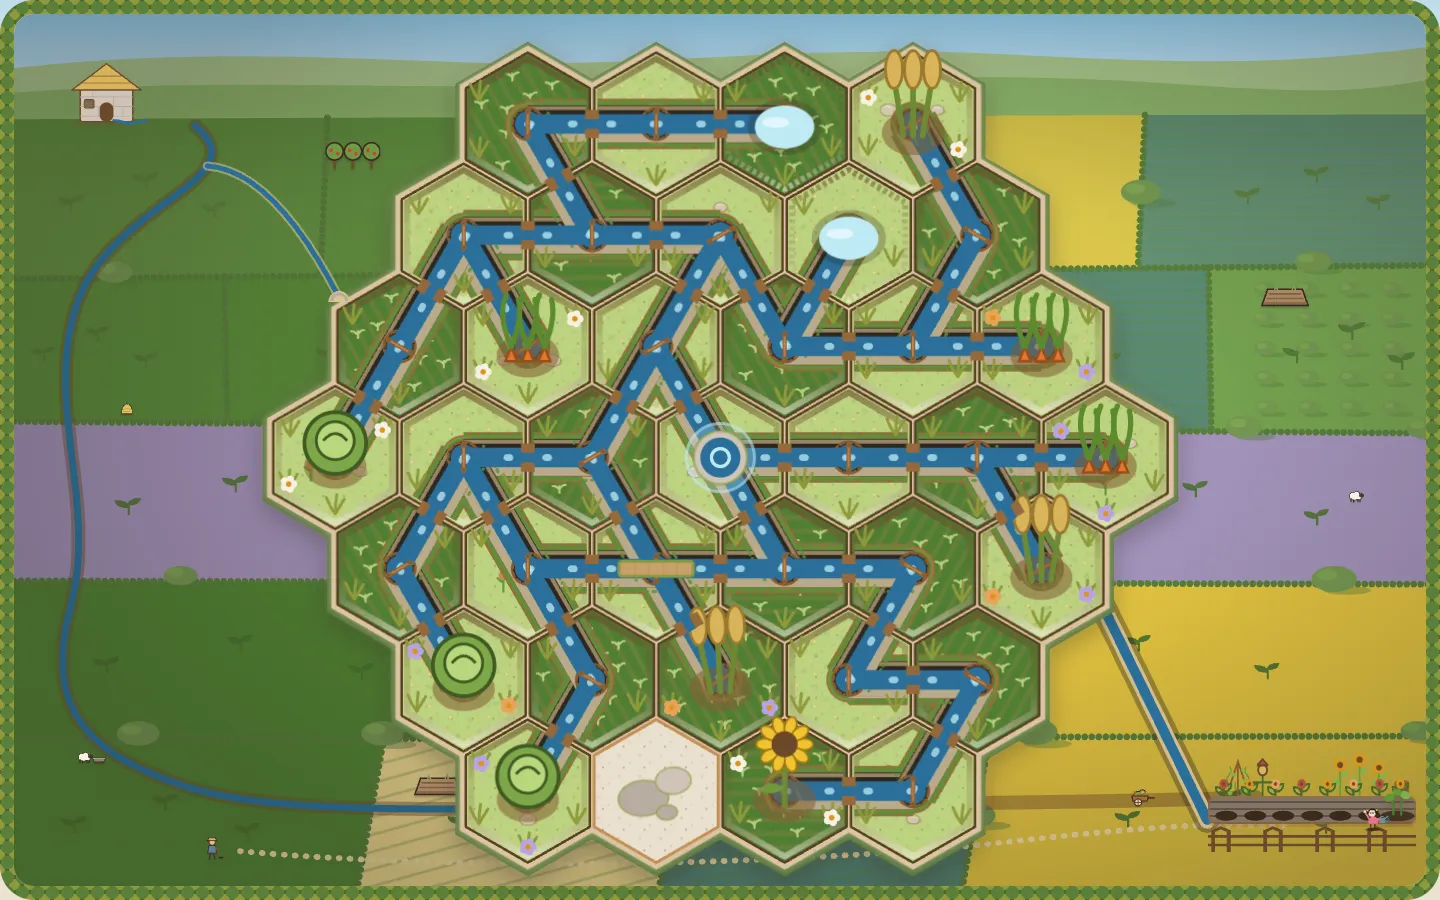
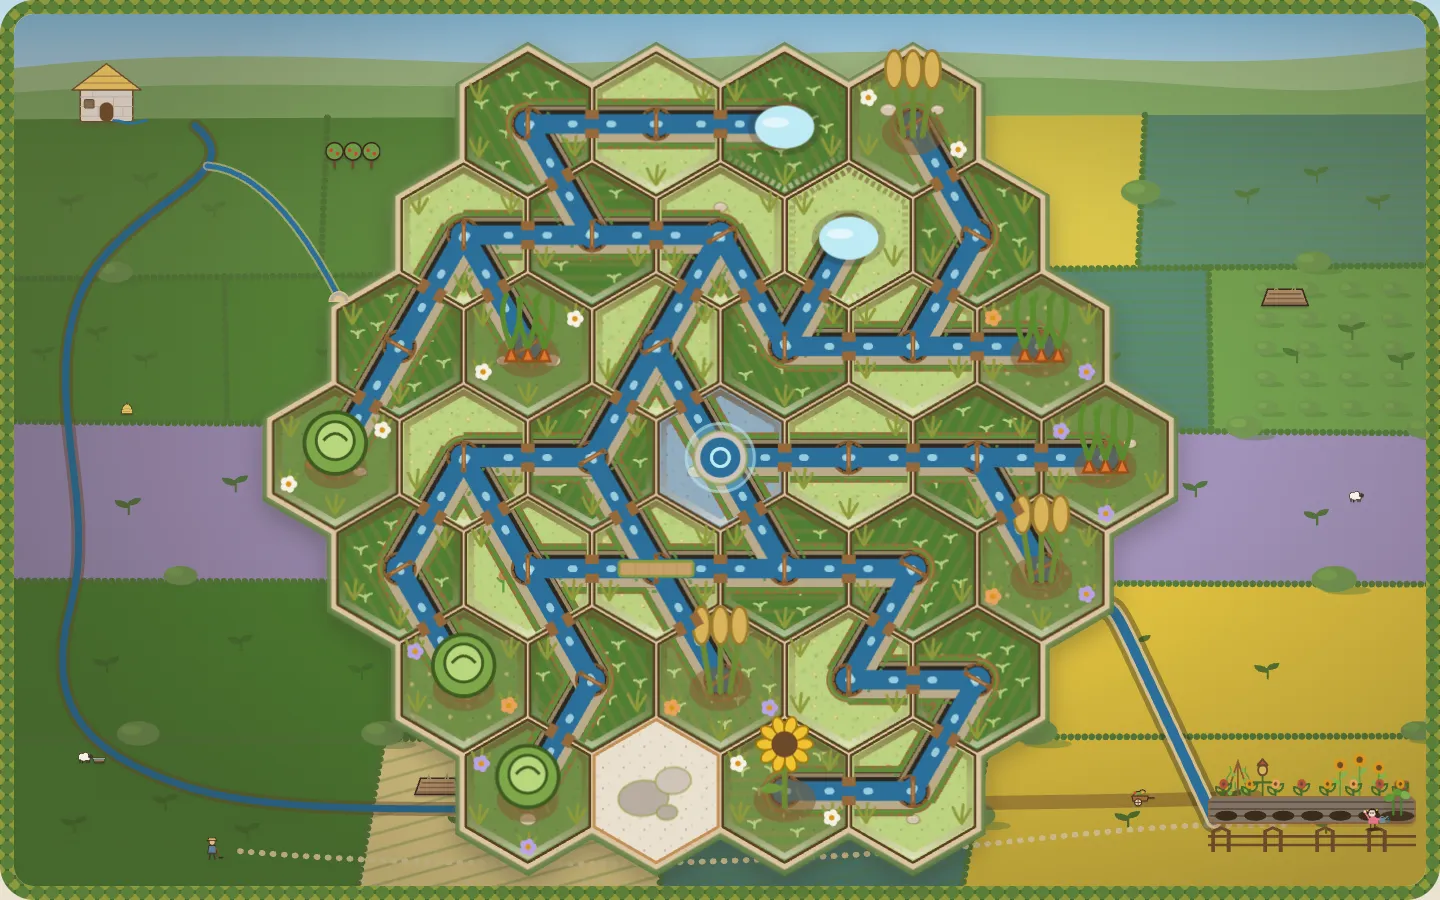
Runnel (plan item 646 done): a field reads as a planted plot and the spring as a water-blue well-head, apart from the channels they join; the glint's loop seamless and still under reduced motion; key art re-shot
Claude-Session: https://claude.ai/code/session_01SimvMN1RHBGCWN7Eo7MzhN

diff --git a/e2e-site/runnel-bloom.spec.ts b/e2e-site/runnel-bloom.spec.ts
@@ -4,6 +4,7 @@ import { expect, test, type Page } from '@playwright/test'
 // watered crop fills 40%+ of its tile's width, the solve's bloom from the spring is done in 1.2 s on any board, and
 // under reduced motion the crop simply fades in within 400 ms.
 const oklab = (c: string): [number, number, number] => {
+  if (c.startsWith('oklab(')) return (c.match(/-?[\d.]+/g) ?? []).slice(0, 3).map(Number) as [number, number, number]
   const v = (c.match(/[\d.]+/g) ?? []).slice(0, 3).map(Number)
   const [r, g, b] = (c.startsWith('color(') ? v : v.map((x) => x / 255)).map((x) => (x <= 0.04045 ? x / 12.92 : ((x + 0.055) / 1.055) ** 2.4)) as [number, number, number]
   const l = Math.cbrt(0.4122214708 * r + 0.5363325363 * g + 0.0514459929 * b)
@@ -59,4 +60,20 @@ test("the solve's bloom runs out from the spring and is done in 1.2 s", async ({
   for (const e of ends) expect(e.end).toBeLessThanOrEqual(1200)
   const byRing = [...ends].sort((a, b) => a.ring - b.ring)
   expect(byRing[0]!.end).toBeLessThanOrEqual(byRing[byRing.length - 1]!.end)
+})
+
+// Plan item 646: the three kinds of tile read apart on a dry board: a field (its plot), the spring (its well-head)
+// and a channel each 12+ ΔE (OKLab x100) from the others' faces (the plan asked 15; a field plot can't darken further
+// without its channel dropping under 3:1 in runnel-tiles, so the plot is told by hue and the spring by blue).
+test('fields, the spring and channels are told apart by their faces', async ({ page }) => {
+  await page.goto('/runnel/?nohelp')
+  await page.locator('.cell.spring').first().waitFor()
+  const f = await page.evaluate(() => {
+    const fill = (s: string) => { const e = document.querySelector(s); return e ? getComputedStyle(e).fill : null }
+    return { field: fill('.cell.field:not(.reservoir):not(.wet) .tile'), spring: fill('.cell.spring .tile'), channel: fill('.cell.channel:not(.wet) .tile') }
+  })
+  expect(f.field && f.spring && f.channel).toBeTruthy()
+  expect(deltaE(f.field!, f.channel!), `field ${f.field} channel ${f.channel}`).toBeGreaterThanOrEqual(12)
+  expect(deltaE(f.spring!, f.channel!), `spring ${f.spring} channel ${f.channel}`).toBeGreaterThanOrEqual(12)
+  expect(deltaE(f.field!, f.spring!), `field ${f.field} spring ${f.spring}`).toBeGreaterThanOrEqual(12)
 })

diff --git a/games/runnel/src/styles.css b/games/runnel/src/styles.css
@@ -5412,3 +5412,16 @@ body:has(.tiles > g.cell.lesson-target) #hint { visibility: hidden; }
 .groove-bed { stroke-width: 11.4; }
 .water { stroke-width: 13.1; }
 .shimmer { stroke-width: 4.6; stroke-dasharray: 0.05 0.6; }
+/* Plan item 646 slice 2: each kind of tile reads as itself: a field (a channel's end, where the crop grows) is a
+   planted plot, its face tinted the crop's green (light enough that its channel keeps 3:1); the spring is a stone well-head, pale stone; channels keep
+   the ground they cross. */
+.cell.field:not(.reservoir) .tile { fill: color-mix(in oklab, var(--dry-field) 46%, var(--wet-field)); }
+.cell.field.wet:not(.reservoir) .tile { fill: color-mix(in oklab, var(--wet-field) 80%, var(--dry-field)); }
+@media (prefers-color-scheme: dark) {
+  /* (dark: a lighter touch of green, so the light channels keep 3:1 on it) */
+  :root:not([data-theme="light"]) .cell.field:not(.reservoir):not(.wet) .tile { fill: color-mix(in oklab, var(--dry-field) 86%, var(--wet-field)); }
+}
+.cell.spring .tile { fill: color-mix(in oklab, var(--water) 50%, var(--paper)); }
+/* (the glint's loop matches its new dash, so it runs seamlessly; still under reduced motion) */
+@keyframes flow { to { stroke-dashoffset: -0.65; } }
+@media (prefers-reduced-motion: reduce) { .wet .shimmer { animation: none; } }

diff --git a/docs/plan/two-week-plan.md b/docs/plan/two-week-plan.md
@@ -6196,7 +6196,7 @@ Progress (lane B, 2026-11-19 02:50, slices 1-2, `2c24709`, `86ee3f0`): each towe
 - **Accept:** at the start of a quick game the players' pieces show on 2+ regions (e2e); no hex shows two identical outlet icons; each piece kind tested in `tests/piece-looks.test.ts`; board/piece specs pass; P and D shot, light and dark.
 - **Size:** 2
 
-## 646. [ ] Runnel: every tile reads as what it is from across the room *(lane B, in progress)*
+## 646. [x] Runnel: every tile reads as what it is from across the room *(done 2026-11-22 08:40, lane B, with deviations: slice 1 (c6080786) cut the channels 1.35x wider (banks, lips, hub: board.ts CW) with the water a ribbon 1.75x item 97's (not 3x: wider would fill the cut and lose its banks), the glints sparser and their flow loop matched to the dash (still under reduced motion); slice 2: a field (a channel's end) is a planted plot, its face tinted the crop's green (lighter in dark so channels keep 3:1), the spring a pale water-blue well-head, channels keep their ground. runnel-bloom asserts the three faces 12+ ΔE apart (not 15: a darker plot broke runnel-tiles' 3:1 channel contrast in morning and golden light); runnel tiles/joins/water/board/valley/win/greened/fields/lesson/front 63 + bloom 6 pass P and D (the result-dock test once under load, alone it passes); key art re-shot. Shots scratchpad r623/w646-*, k646, s646-*)*
 *(planned 2026-11-22 07:45, lane B, plan1122c critique; item 636 grew the crops, this is the tiles and the water)*
 - **Why:** `plan1122c/runnel-solved-D` 590-1210 x 40-600 (P 0-390 x 240-600): ~37 near-identical pale hexes; the water is a thin blue dashed line that reads as rail track; channel tiles, fields and the spring barely differ. VISION 2, 6.
 - **Build:** `games/runnel/src/board.ts`, styles: water a ribbon about 3x today's width with banks and a slow glint that runs downstream (reduced motion: still); channel tiles edged in stone or timber, fields raised plots with a soil rim, the spring a small stone well; dry and wet keep item 636's contrast.
